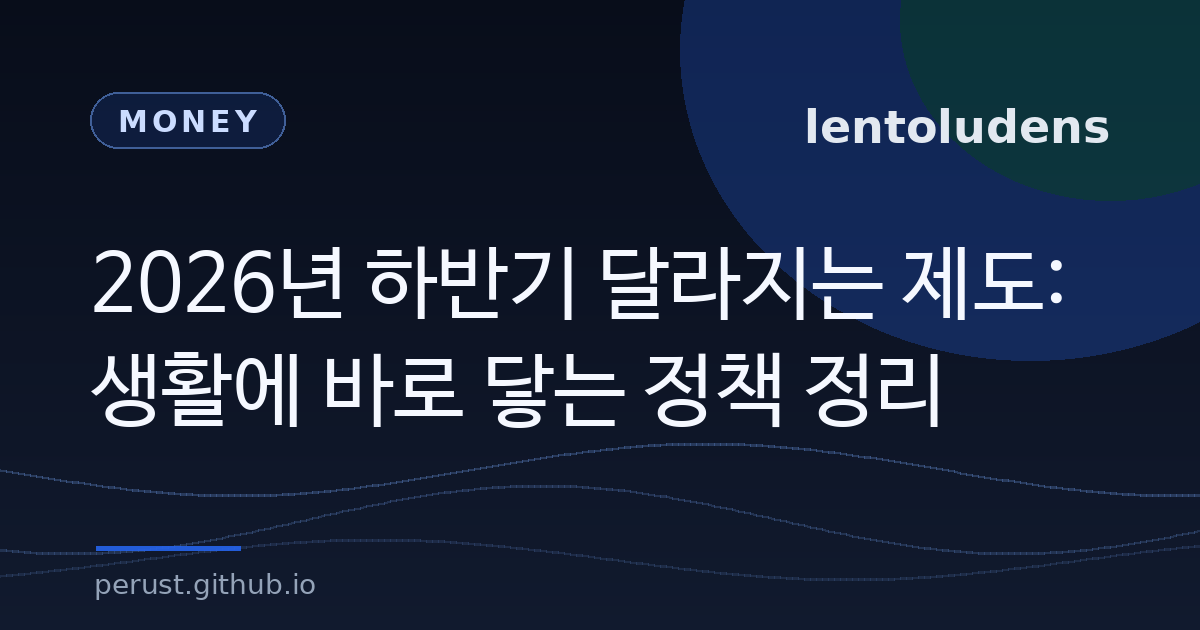
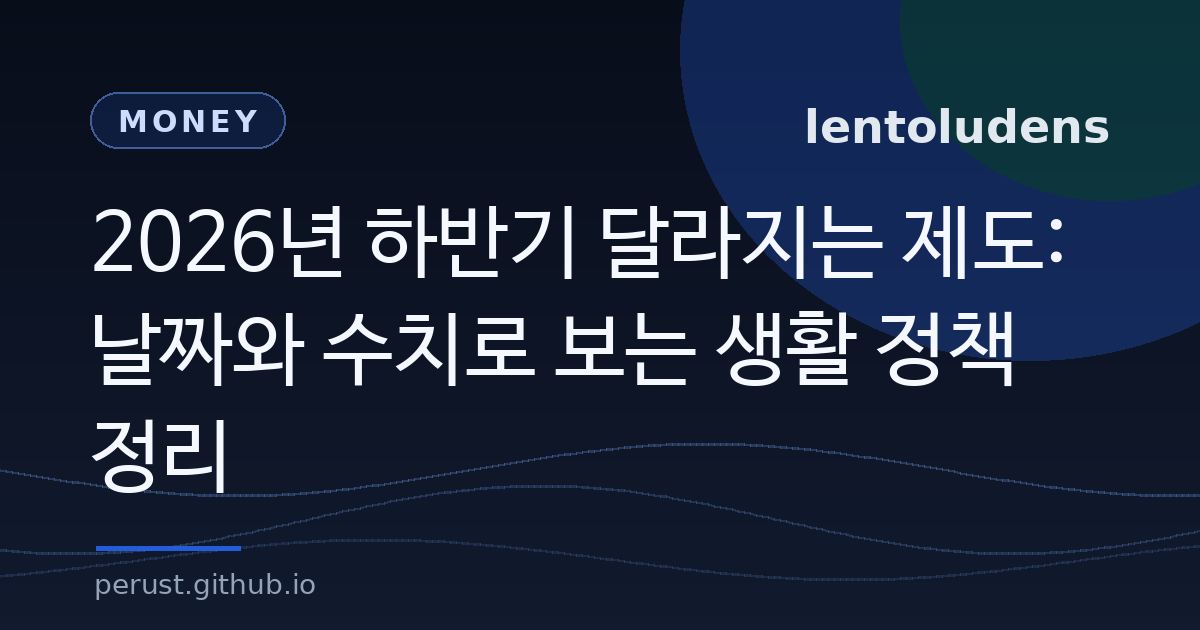
Ground policy checklist in official figures

Changed region(s): [[0.0617, 0.3317, 0.8942, 0.7841]]

diff --git a/src/content/blog/2026-07-07-second-half-policy-changes-checklist.md b/src/content/blog/2026-07-07-second-half-policy-changes-checklist.md
@@ -1,158 +1,220 @@
 ---
-title: "2026년 하반기 달라지는 제도: 생활에 바로 닿는 정책 정리"
-description: "2026년 하반기부터 달라지는 정부 제도 중 단기 육아휴직, 코레일·SRT 통합앱, 다자녀 고속도로 통행료 감면, 영화 할인권처럼 생활에 닿는 변화를 정리했습니다."
+title: "2026년 하반기 달라지는 제도: 날짜와 수치로 보는 생활 정책 정리"
+description: "2026년 하반기 달라지는 제도 중 노란우산공제 연 1800만 원, 1~2주 단기 육아휴직, 고속철도 통합앱, 철도 예매 2개월 확대 등 생활 정책을 날짜와 수치로 정리했습니다."
 date: "2026-07-07T19:40:00+09:00"
 category: "Money"
 tags: ["정부정책", "하반기제도", "생활비", "육아휴직", "철도", "다자녀", "정책체크"]
 ---
 
-2026년 하반기 달라지는 정부 제도에는 실생활에 도움되는 정보가 있습니다.<br />
-핵심은 단기 육아휴직 신설, 코레일·SRT 통합앱 출시, 다자녀 고속도로 통행료 감면, 영화 할인권처럼 생활비와 시간에 직접 닿는 변화입니다.<br />
-아래에는 핵심 변화, 적용 시점, 생활 영향을 먼저 정리했습니다.
+2026년 하반기 달라지는 정부 제도는 40개 대표 정책으로 정리됐습니다.<br />
+그중 실생활에 바로 닿는 변화는 소상공인 공제 납입한도 확대, 1~2주 단기 육아휴직, 고속철도 통합앱, 철도 승차권 예매 기간 확대, 다자녀가구 고속도로 통행료 감면입니다.<br />
+아래 내용은 정책브리핑의 2026년 6월 30일 보도와 ‘2026년 하반기부터 이렇게 달라집니다’ 안내를 기준으로, 날짜와 수치가 확인되는 항목 중심으로 다시 정리했습니다.
 
 ## 요약 정리
 
 <ul class="issue-list">
   <li class="issue-card">
-    <span class="issue-badge">8월</span>
-    <h3>1~2주 단기 육아휴직 신설</h3>
-    <p class="issue-summary">기존에는 육아휴직을 길게 쓰는 방식이 중심이었다면, 하반기부터 1주 또는 2주 단위로 짧게 쓰는 선택지가 생깁니다.</p>
+    <span class="issue-badge">7월</span>
+    <h3>노란우산공제 납입한도 연 1800만 원</h3>
+    <p class="issue-summary">소기업·소상공인이 상황에 맞춰 납입할 수 있도록 분기별 한도를 조정하고, 연 1800만 원까지 납입할 수 있게 됩니다.</p>
   </li>
   <li class="issue-card">
-    <span class="issue-badge">8월</span>
-    <h3>코레일·SRT 통합앱 출시</h3>
-    <p class="issue-summary">코레일과 SRT 예매를 앱 하나에서 처리하는 방향으로 바뀝니다. 열차 조회와 예매 동선이 줄어드는 변화입니다.</p>
+    <span class="issue-badge">8월 20일</span>
+    <h3>1주 또는 2주 단기 육아휴직 신설</h3>
+    <p class="issue-summary">자녀 방학, 휴원·휴교, 질병 등 단기 돌봄이 필요할 때 연 1회 1주 또는 2주 단위로 육아휴직을 쓸 수 있게 됩니다.</p>
   </li>
   <li class="issue-card">
-    <span class="issue-badge">하반기</span>
-    <h3>다자녀 고속도로 통행료 감면</h3>
-    <p class="issue-summary">다자녀 가구의 자동차 이동 부담을 줄이기 위한 고속도로 통행료 감면 제도가 하반기 변화 항목에 포함됐습니다.</p>
+    <span class="issue-badge">10월</span>
+    <h3>철도 승차권 예매 기간 1개월 → 2개월</h3>
+    <p class="issue-summary">열차 출발 1개월 전부터 가능했던 철도 예매가 10월부터 2개월 전까지 확대됩니다.</p>
   </li>
 </ul>
 
-## 하반기 생활 정책 변화 한눈에
+## 날짜와 수치로 보는 변화
 
 <table class="comparison-table">
   <thead>
     <tr>
-      <th>항목</th>
-      <th>기존에 불편했던 점</th>
-      <th>하반기 변화</th>
-      <th>생활 영향</th>
+      <th>시점</th>
+      <th>제도</th>
+      <th>무엇이 바뀌나</th>
+      <th>숫자·기준</th>
     </tr>
   </thead>
   <tbody>
     <tr>
-      <td>육아휴직</td>
-      <td>긴 기간을 한 번에 쓰는 방식이 부담</td>
-      <td>8월부터 1주·2주 단기 육아휴직 도입</td>
-      <td>방학, 병원, 돌봄 공백에 맞춰 짧게 사용 가능</td>
+      <td>7월</td>
+      <td>노란우산공제</td>
+      <td>소상공인 납입한도 확대</td>
+      <td>연 1800만 원까지 납입 가능</td>
     </tr>
     <tr>
-      <td>철도 예매</td>
-      <td>코레일과 SRT 앱을 따로 확인</td>
-      <td>8월 코레일·SRT 통합앱 출시</td>
-      <td>열차 조회, 예매, 변경 동선 단순화</td>
+      <td>7월 1일</td>
+      <td>면세품 교환</td>
+      <td>입국 뒤 같은 물품 교환 절차 간소화</td>
+      <td>면세범위 800달러 이내</td>
     </tr>
     <tr>
-      <td>다자녀 이동비</td>
-      <td>가족 단위 장거리 이동 시 통행료 부담</td>
-      <td>다자녀 고속도로 통행료 감면 추진</td>
-      <td>자차 이동이 잦은 다자녀 가구의 교통비 부담 완화</td>
+      <td>8월</td>
+      <td>고속철도 통합앱</td>
+      <td>코레일톡·SRT 앱을 나눠 쓰던 예매 동선 통합</td>
+      <td>전 열차 통합 예·발매 방식</td>
     </tr>
     <tr>
-      <td>문화생활</td>
-      <td>가족·개인 문화비 지출 부담</td>
-      <td>영화 할인권 등 문화 할인 지원</td>
-      <td>영화 관람 비용 일부 절감</td>
+      <td>8월 20일</td>
+      <td>단기 육아휴직</td>
+      <td>짧은 돌봄 공백에 맞춘 육아휴직 신설</td>
+      <td>연 1회, 1주 또는 2주 단위</td>
+    </tr>
+    <tr>
+      <td>8월 28일</td>
+      <td>암표 근절</td>
+      <td>매크로 여부와 관계없이 암표 부정거래 금지</td>
+      <td>판매금액 50배 이하 과징금 근거 마련</td>
+    </tr>
+    <tr>
+      <td>10월</td>
+      <td>철도 승차권 예매</td>
+      <td>예매 가능 기간 확대</td>
+      <td>출발 1개월 전 → 2개월 전</td>
+    </tr>
+    <tr>
+      <td>11월 12일</td>
+      <td>디지털 중기예보</td>
+      <td>중기예보를 더 촘촘하게 제공</td>
+      <td>5km 격자, +6~8일 3시간 단위, +9~11일 6시간 단위</td>
+    </tr>
+    <tr>
+      <td>12월</td>
+      <td>AI 정부24</td>
+      <td>일상용어 질의, AI 민원서류 발급·분석 기능 제공</td>
+      <td>AI 지능형 검색·AI 에이전트 기반 민원 서비스</td>
     </tr>
   </tbody>
 </table>
 
-## 1~2주 단기 육아휴직
+## 소상공인: 노란우산공제 연 1800만 원
 
-가장 구체적인 변화는 단기 육아휴직입니다.<br />
-하반기부터 1주 또는 2주 단위의 짧은 육아휴직을 쓸 수 있는 제도가 도입됩니다. 기존 육아휴직이 “몇 달 이상 비우는 결정”처럼 느껴졌다면, 새 제도는 짧은 돌봄 공백에 대응하는 선택지를 추가하는 변화입니다.
-
-<ul class="issue-list">
-  <li class="issue-card"><h3>무엇이 바뀌나</h3><p class="issue-summary">육아휴직을 1주 또는 2주 단위로 짧게 쓸 수 있는 제도가 생깁니다.</p></li>
-  <li class="issue-card"><h3>언제부터인가</h3><p class="issue-summary">정부 하반기 제도 안내와 관련 보도 기준으로 8월 시행 항목입니다.</p></li>
-  <li class="issue-card"><h3>누구에게 영향이 있나</h3><p class="issue-summary">긴 육아휴직은 부담스럽지만 방학, 병원, 돌봄 공백 때문에 짧게 쉬어야 하는 부모에게 영향이 큽니다.</p></li>
-</ul>
-
-이 변화의 핵심은 “휴직 기간이 짧아진다”가 아니라 “긴 휴직 외에 1~2주 단위 선택지가 추가된다”입니다. 가족 일정과 회사 업무 사이에서 선택지가 하나 늘어나는 변화로 보면 됩니다.
-
-## 8월 코레일·SRT 통합앱
-
-철도 예매 쪽에서는 코레일·SRT 통합앱 출시가 하반기 변화로 제시됐습니다.<br />
-기존에는 KTX·일반열차와 SRT를 비교하려면 앱이나 예매 경로를 따로 확인하는 일이 많았습니다. 통합앱이 나오면 열차 조회와 예매 동선이 줄어드는 효과가 있습니다.
+7월부터 소상공인 관련 변화 중 수치가 분명한 항목은 노란우산공제 납입한도 확대입니다.<br />
+정책브리핑에 따르면 개인 상황에 따라 자유롭게 납입할 수 있도록 분기별 한도를 조정하고, 연 1800만 원까지 납입할 수 있게 됩니다.
 
 <ul class="issue-list">
-  <li class="issue-card"><h3>무엇이 바뀌나</h3><p class="issue-summary">코레일과 SRT 예매를 하나의 앱에서 처리하는 방향으로 바뀝니다.</p></li>
-  <li class="issue-card"><h3>언제부터인가</h3><p class="issue-summary">관련 보도 기준 출시 시점은 8월입니다.</p></li>
-  <li class="issue-card"><h3>체감 변화</h3><p class="issue-summary">서울·수서 출발 선택, KTX·SRT 비교, 예매 변경 과정이 지금보다 단순해질 수 있습니다.</p></li>
+  <li class="issue-card"><h3>기존 불편</h3><p class="issue-summary">소기업·소상공인이 현금흐름에 맞춰 납입하기 어려운 경우가 있었습니다.</p></li>
+  <li class="issue-card"><h3>하반기 변화</h3><p class="issue-summary">분기별 한도를 조정하고 연 1800만 원까지 납입할 수 있게 됩니다.</p></li>
+  <li class="issue-card"><h3>생활 영향</h3><p class="issue-summary">매출 변동이 큰 자영업자가 공제 납입 계획을 더 유연하게 잡을 수 있습니다.</p></li>
 </ul>
 
-다만 앱이 하나가 된다고 운임, 좌석 정책, 환불 규정까지 모두 같아진다는 뜻은 아닙니다. 통합의 핵심은 예매 경로와 사용 동선의 변화입니다.
+소상공인 정책자금도 상환 부담 완화가 포함됐습니다. 2023년 이후 소상공인 정책자금 직접대출을 받은 뒤 2025년 폐업한 소상공인이 취업에 성공하면 상환연장 지원 대상에 포함되고, 취업 후 1년 이상 근속하면 금리감면도 받을 수 있습니다.
 
-## 다자녀 고속도로 통행료 감면
+## 육아: 8월 20일부터 1~2주 단기 육아휴직
 
-다자녀 가구에는 고속도로 통행료 감면이 생활비 항목으로 중요합니다.<br />
-가족 단위 이동은 대중교통보다 자가용을 쓰는 경우가 많고, 명절·방학·주말 이동이 반복되면 통행료도 고정비처럼 쌓입니다. 하반기 제도 변화에는 이런 이동비 부담을 줄이는 내용이 포함됐습니다.
-
-<ul class="issue-list">
-  <li class="issue-card"><h3>무엇이 바뀌나</h3><p class="issue-summary">다자녀 가구의 고속도로 통행료 부담을 줄이는 감면 제도가 하반기 변화 항목에 포함됐습니다.</p></li>
-  <li class="issue-card"><h3>누구에게 영향이 있나</h3><p class="issue-summary">자녀가 여러 명이고 자가용 장거리 이동이 잦은 가구에 직접적인 영향이 있습니다.</p></li>
-  <li class="issue-card"><h3>왜 중요한가</h3><p class="issue-summary">통행료는 한 번 금액보다 반복 이동 때 누적되는 부담이 커서 가족 단위 이동비 절감 효과가 생길 수 있습니다.</p></li>
-</ul>
-
-이 항목은 단순한 교통 정책이 아니라 가족 생활비 정책에 가깝습니다. 여행, 병원, 친가·외가 방문처럼 반복 이동이 있는 가구일수록 체감이 커집니다.
-
-## 영화 할인권 등 문화비 지원
-
-문화비 쪽에서는 영화 할인권이 하반기 변화 항목으로 제시됐습니다.<br />
-영화 할인권은 큰 지원금처럼 보기는 어렵지만, 실제 소비자가 바로 이해하기 쉬운 생활형 지원입니다. 가족 관람이나 데이트, 주말 문화생활처럼 지출이 반복되는 영역에서 체감됩니다.
+단기 육아휴직은 기존 글에서 가장 뭉뚱그려져 있던 부분이라 정확히 다시 정리했습니다.<br />
+고용노동부는 2026년 8월 20일부터 단기 육아휴직을 신설합니다. 자녀의 방학, 휴원·휴교, 질병처럼 단기간 돌봄이 필요할 때 연 1회 1주 또는 2주 단위로 육아휴직을 쓸 수 있게 하는 내용입니다.
 
 <table class="comparison-table">
   <thead>
     <tr>
       <th>구분</th>
-      <th>변화의 의미</th>
+      <th>내용</th>
     </tr>
   </thead>
   <tbody>
     <tr>
-      <td>대상</td>
-      <td>영화 관람 수요가 있는 일반 소비자</td>
+      <td>시행일</td>
+      <td>2026년 8월 20일</td>
     </tr>
     <tr>
-      <td>효과</td>
-      <td>관람권 할인으로 문화비 일부 절감</td>
+      <td>사용 단위</td>
+      <td>1주 또는 2주</td>
     </tr>
     <tr>
-      <td>성격</td>
-      <td>장기 복지보다 소비 진작과 문화 접근성 확대에 가까운 제도</td>
+      <td>사용 횟수</td>
+      <td>연 1회</td>
+    </tr>
+    <tr>
+      <td>주요 사유</td>
+      <td>자녀 방학, 휴원·휴교, 질병 등 단기간 돌봄 필요 상황</td>
     </tr>
   </tbody>
 </table>
 
-이 항목은 누가 얼마나 받는지보다, 실제 예매 단계에서 할인권이 적용되는지에 따라 체감이 갈립니다. 정책 성격은 문화생활 비용을 낮추는 쪽에 있습니다.
+이 제도는 모든 부모에게 현금이 지급되는 정책이 아니라, 짧은 돌봄 공백에 맞춰 휴직 선택지를 넓히는 제도입니다. 그래서 실제 영향은 아이 돌봄 일정과 회사 인사 절차가 맞물리는 직장인 부모에게 큽니다.
 
-## 생활 상황별 영향
+## 교통: 8월 고속철도 통합앱, 10월 예매 기간 2개월
 
-<div class="routine-kv">
-  <div><dt>직장인 부모</dt><dd>8월부터 1주·2주 단기 육아휴직 선택지가 생깁니다.</dd></div>
-  <div><dt>철도 이용자</dt><dd>8월 코레일·SRT 통합앱으로 예매 동선이 줄어듭니다.</dd></div>
-  <div><dt>다자녀 가구</dt><dd>고속도로 통행료 감면으로 장거리 자차 이동비 부담이 줄 수 있습니다.</dd></div>
-  <div><dt>문화생활 소비자</dt><dd>영화 할인권으로 관람 비용 일부를 줄일 수 있습니다.</dd></div>
-</div>
+철도 관련 변화는 두 가지입니다.<br />
+첫째, 8월에 고속철도 통합앱이 출시됩니다. 코레일톡과 SRT 앱에서 각각 예매해야 했던 고속철도 승차권을 통합앱에서 전 열차 통합 예·발매 방식으로 이용할 수 있게 하는 내용입니다.
 
-정리하면, 이번 하반기 제도 변화는 “큰돈을 한 번에 주는 정책”이라기보다 생활 속 비용과 시간을 조금씩 줄이는 변화에 가깝습니다. 가장 수치가 분명한 항목은 8월 시행으로 언급된 1~2주 단기 육아휴직과 8월 코레일·SRT 통합앱입니다.
-
-## 참고한 자료
+둘째, 10월부터 철도 승차권 예매 기간이 열차 출발 1개월 전에서 2개월 전으로 늘어납니다. 항공권과 숙박시설 예매 주기에 맞춰 철도 예매 시점을 앞당기는 변화입니다.
 
 <ul class="issue-list">
-  <li class="issue-card"><h3>정책브리핑</h3><p class="issue-summary"><a href="https://news.google.com/rss/articles/CBMibEFVX3lxTFBkVzlIVWtTcWI0cU9lYmswLWxQTjJ6anlXRGVRbVZTQUd4eDNmcFd1bDE0UU1VVVlCTmVoOTJ6bjNmR2MzT2FiaFlJRm1vQjRzbDBuMnZwTzZTZG1DSUhjRzdBdy1UcWgtOWgxZw?oc=5">영화 할인권부터 단기 육아휴직까지…하반기 달라지는 제도</a> 보도를 참고했습니다.</p></li>
-  <li class="issue-card"><h3>기획재정부 정책 안내</h3><p class="issue-summary"><a href="https://whatsnew.moef.go.kr/">하반기부터 이렇게 달라집니다</a>에서 부처별 제도 변경을 확인할 수 있습니다.</p></li>
-  <li class="issue-card"><h3>정부24</h3><p class="issue-summary"><a href="https://www.gov.kr/">정부24</a>에서 실제 신청·증명·민원 창구를 확인할 수 있습니다.</p></li>
+  <li class="issue-card"><h3>8월 변화</h3><p class="issue-summary">코레일톡과 SRT 앱을 따로 쓰던 고속철도 예매를 통합앱에서 처리하는 방식으로 바뀝니다.</p></li>
+  <li class="issue-card"><h3>10월 변화</h3><p class="issue-summary">철도 승차권 예매 가능 기간이 출발 1개월 전에서 2개월 전으로 확대됩니다.</p></li>
+  <li class="issue-card"><h3>생활 영향</h3><p class="issue-summary">여행, 행사, 단체 이동처럼 숙박·항공권과 함께 일정을 잡는 경우 계획을 더 일찍 확정할 수 있습니다.</p></li>
+</ul>
+
+## 다자녀·장애인·유공자 차량: 고속도로 통행료 감면
+
+국토교통부는 하반기에 장애인·유공자의 장기 임차·대여 차량과 다자녀가구 차량의 고속도로 통행료 감면을 추진합니다.<br />
+정책브리핑 보도에서 수치가 명시된 부분은 장애인·유공자와 같은 세대원이 장기 임차·대여한 차량의 통행료 50% 할인입니다. 다자녀가구는 주말 통행료 감면으로 설명됐습니다.
+
+<table class="comparison-table">
+  <thead>
+    <tr>
+      <th>대상</th>
+      <th>변화</th>
+      <th>확인된 수치</th>
+    </tr>
+  </thead>
+  <tbody>
+    <tr>
+      <td>장애인·유공자와 같은 세대원 장기 임차·대여 차량</td>
+      <td>고속도로 통행료 할인</td>
+      <td>50%</td>
+    </tr>
+    <tr>
+      <td>다자녀가구 차량</td>
+      <td>주말 고속도로 통행료 감면</td>
+      <td>주말 감면</td>
+    </tr>
+  </tbody>
+</table>
+
+기존 글에서는 다자녀 통행료 감면을 너무 일반적으로 썼습니다. 정확히는 “다자녀가구 주말 통행료 감면”으로 보는 것이 맞습니다.
+
+## 디지털·행정 서비스: 7월부터 12월까지 순차 적용
+
+생활 서비스 변화도 날짜가 나뉩니다. 7월 면세품 교환 간소화, 9월 층간소음 챗봇, 10월 재난문자 개선, 12월 AI 정부24가 순차 적용됩니다.
+
+<ul class="issue-list">
+  <li class="issue-card"><h3>7월 1일 면세품 교환</h3><p class="issue-summary">면세범위 800달러 이내에서 출국 때 산 면세품을 입국 뒤 같은 물품으로 교환할 때 자진신고와 재출국 절차 없이 국내 택배·우편 교환이 가능해집니다.</p></li>
+  <li class="issue-card"><h3>9월 층간소음 챗봇</h3><p class="issue-summary">24시간 맞춤형 층간소음 정보를 제공하는 비대면 상담안내 서비스가 도입됩니다.</p></li>
+  <li class="issue-card"><h3>10월 재난문자 개선</h3><p class="issue-summary">행동요령 전달을 위해 글자 수를 확대하고, 중복 검토기능을 도입해 과다·중복 수신 부담을 줄입니다.</p></li>
+  <li class="issue-card"><h3>12월 AI 정부24</h3><p class="issue-summary">일상용어 질의 기반 AI 검색, AI 에이전트 기반 민원서류 발급, 민원서류 분석·대화형 질의응답 등을 제공합니다.</p></li>
+</ul>
+
+## 소비자 보호: 암표 과징금 50배 이하
+
+8월 28일부터 공연 및 스포츠경기 암표 근절 조치가 강화됩니다.<br />
+기존에는 매크로 이용 여부가 쟁점이 되기 쉬웠지만, 하반기 조치에서는 매크로 이용 여부와 관계없이 모든 암표 부정거래행위를 금지하는 방향으로 정리됐습니다.
+
+핵심 수치는 판매금액 50배 이하 과징금입니다. 신고 접수·처리 기관 지정, 확인자료 제출명령, 신고 포상금 지급 근거도 함께 마련됩니다.
+
+## 정리
+
+이 글에서 실제로 생활과 연결되는 변화는 네 갈래입니다.
+
+- 소상공인: 노란우산공제 연 1800만 원, 폐업 뒤 취업 시 상환연장·금리감면 가능성
+- 직장인 부모: 8월 20일부터 연 1회 1주 또는 2주 단기 육아휴직
+- 이동·여행: 8월 고속철도 통합앱, 10월 철도 예매 기간 1개월에서 2개월로 확대
+- 소비자·생활 서비스: 800달러 이내 면세품 교환 간소화, 암표 판매금액 50배 이하 과징금, 12월 AI 정부24
+
+이번 정리는 날짜, 수치, 적용 대상이 공식 보도에서 확인되는 항목을 중심으로 구성했습니다.
+
+## 참고한 공식 자료
+
+<ul class="issue-list">
+  <li class="issue-card"><h3>정책브리핑</h3><p class="issue-summary"><a href="https://www.korea.kr/news/policyNewsView.do?newsId=148967360">영화 할인권부터 단기 육아휴직까지…하반기 달라지는 제도</a> 보도를 기준으로 정리했습니다.</p></li>
+  <li class="issue-card"><h3>정책변화 안내서</h3><p class="issue-summary">정책브리핑 보도에 연결된 ‘2026년 하반기 정책변화 안내서’와 ‘2026년 하반기부터 이렇게 달라집니다’ 책자 내용을 함께 기준으로 삼았습니다.</p></li>
+  <li class="issue-card"><h3>정부24</h3><p class="issue-summary"><a href="https://www.gov.kr/">정부24</a>는 실제 신청·증명·민원 창구 확인용으로 참고할 수 있습니다.</p></li>
 </ul>
